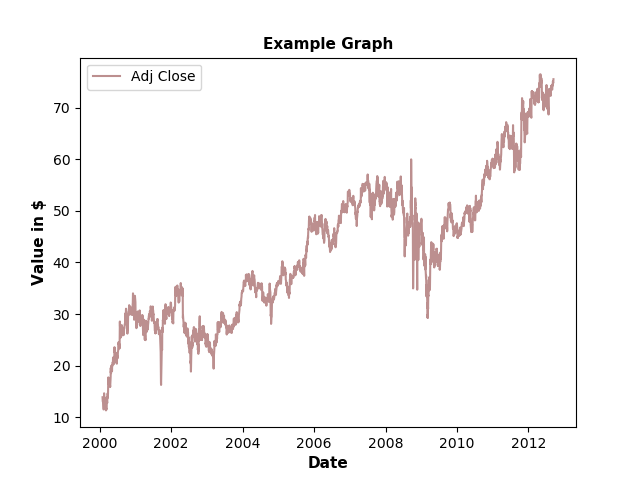
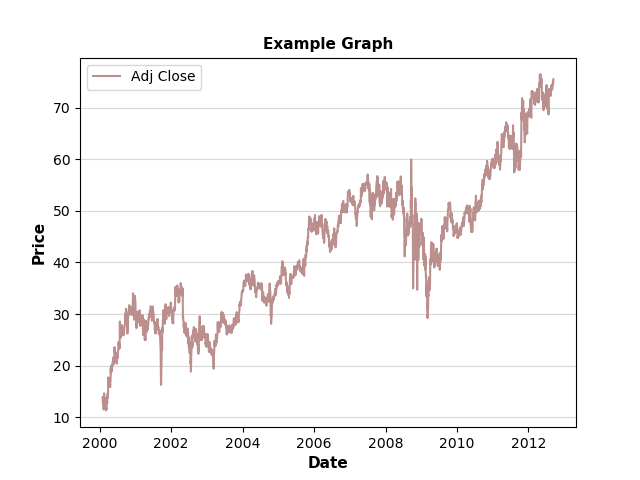
refactor: Utils examples updates.
Utils coding examples updated as a result of package refactoring.
Additionally, README txt file replaced by README.md where more details
added about the implemented examples.

Changed region(s): [[0.0312, 0.4062, 0.0938, 0.5938]]

diff --git a/examples/utils/utils_plot.py b/examples/utils/utils_plot.py
@@ -1,6 +1,6 @@
 '''
 File name: utils_plot.py
-    Example code rlated to the tradingti.utils.plot module.
+    Example code related to the tradingti.utils._plot module.
            
 Author: Vasileios Saveris
 enail: vsaveris@gmail.com
@@ -24,19 +24,20 @@ df = pd.read_csv('./data/example_plot.csv', parse_dates = True, index_col = 0)
 
 # Create the plot (with exception handling)
 try:
-    plt = lineGraph(data = df[['Adj Close']], title = 'Example Graph', 
-        x_label = 'Date', y_label = 'Value in $')
+    plt = lineGraph(data = df[['Adj Close']], title = 'Example Graph')
+    
+    # Note: Special handling is needed when you call first plt.show() and then
+    #       the plt.savefig() for the same figure. See: 
+    #       https://stackoverflow.com/questions/9012487/matplotlib-pyplot-savefig-outputs-blank-image
+
+    # Save the created graph
+    plt.savefig('./figures/utils_plot_example.png')
+    print('- Graph ./figures/utils_plot_example.png saved.')
+
+    # Show the created graph
+    plt.show()
 
 except Exception as e:
     print('ERROR:', e)
 
-# Note: Special handling is needed when you call first plt.show() and then
-#       the plt.savefig() for the same figure. See: 
-#       https://stackoverflow.com/questions/9012487/matplotlib-pyplot-savefig-outputs-blank-image
 
-# Save the created graph
-plt.savefig('./figures/utils_plot_example.png')
-print('- Graph ./figures/utils_plot_example.png saved.')
-
-# Show the created graph
-plt.show()

diff --git a/examples/utils/utils_data_preprocessing.py b/examples/utils/utils_data_preprocessing.py
@@ -1,6 +1,6 @@
 '''
 File name: utils_data_preprocessing.py
-    Example code rlated to the tradingti.utils.data_preprocessing
+    Example code rlated to the tradingti.utils._data_preprocessing
     module.
            
 Author: Vasileios Saveris
@@ -31,7 +31,7 @@ for data_file in ['example_data_missing_1.csv', 'example_data_missing_2.csv',
     df = pd.concat([df, fillMissingValues(df)], axis = 1)
     df.columns=['Before','After']
 
-    graph = lineGraph(data = df, title = 'Fill Missing Values', x_label = 'Date', y_label = 'Value in $')
+    graph = lineGraph(data = df, title = 'Fill Missing Values')
     graph.savefig('./figures/' + data_file.split('.')[0] + '.png')
     graph.clf()
     

diff --git a/examples/utils/README.md b/examples/utils/README.md
@@ -1,0 +1,38 @@
+# Utils package usage examples (tradingti.utils)
+## Description
+The `tradingti.utils` package contains utilities methods. The input data used for the below examples can be found under the `data` directory.
+
+### _plot module examples
+The `_plot` module defined under the `tradingti.utils` package implements methods for plotting stock and technical indicators data. Below is an example of using the module's methods.
+```
+$python utils_plot.py
+```
+
+The script generates a plot of an input stock price data.
+![](/figures/utils_plot_example.png?raw=true)
+
+
+### _data_preprocessing module examples
+The `_data_preprocessing` module defined under the `tradingti.utils` package implements methods for preprocessing the input stock data. Below is an example of using the module's methods.
+```
+$python utils_data_preprocessing.py
+```
+
+The script fills the missing values for three different input data:
+
+#### Missing data at the begining of the period 
+![](/figures/example_data_missing_1.png?raw=true)
+
+#### Missing data at the end of the period 
+![](/figures/example_data_missing_2.png?raw=true)
+
+#### Missing data in multiple places in the period 
+![](/figures/example_data_missing_3.png?raw=true)
+
+
+## Prerequisites
+1. python: `version 3.6` or later
+2. tradingti library: `commit 53c61ca41beb7a273462c7c518f9433846bbcd8d` or later
+3. matplotlib: `version 3.1.2` or later
+4. pandas: `version 0.25.3` or later
+
